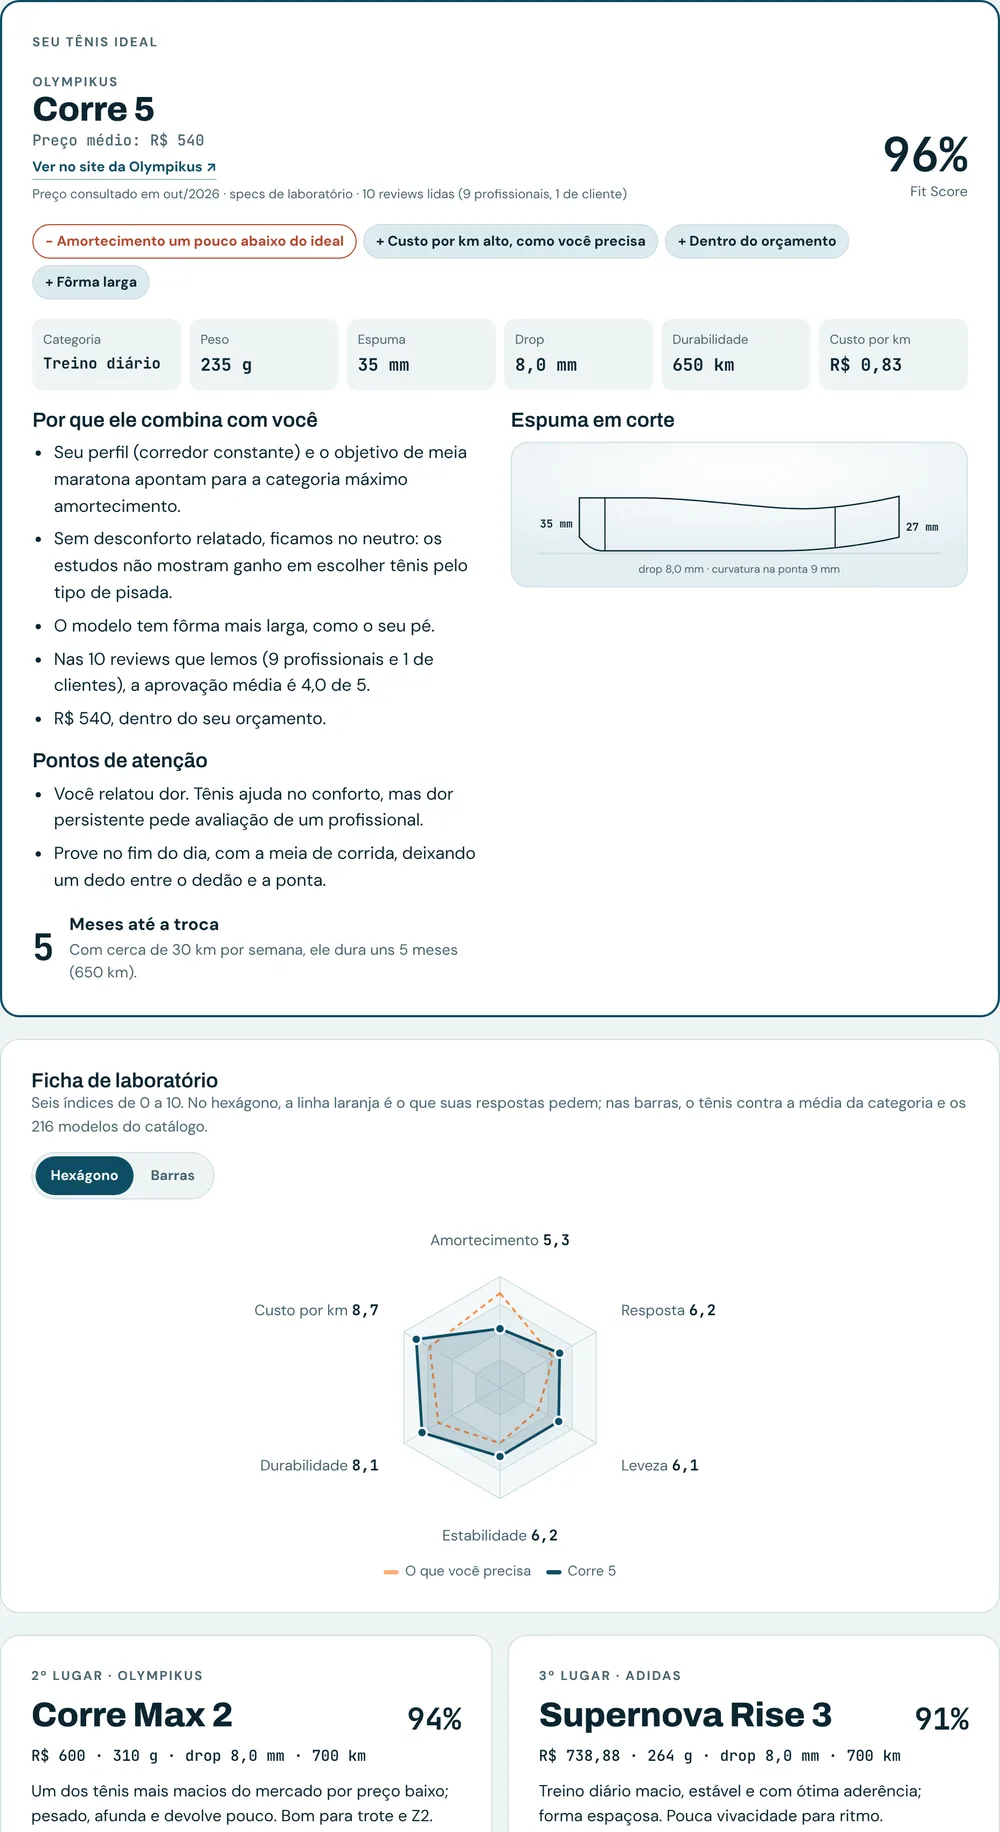
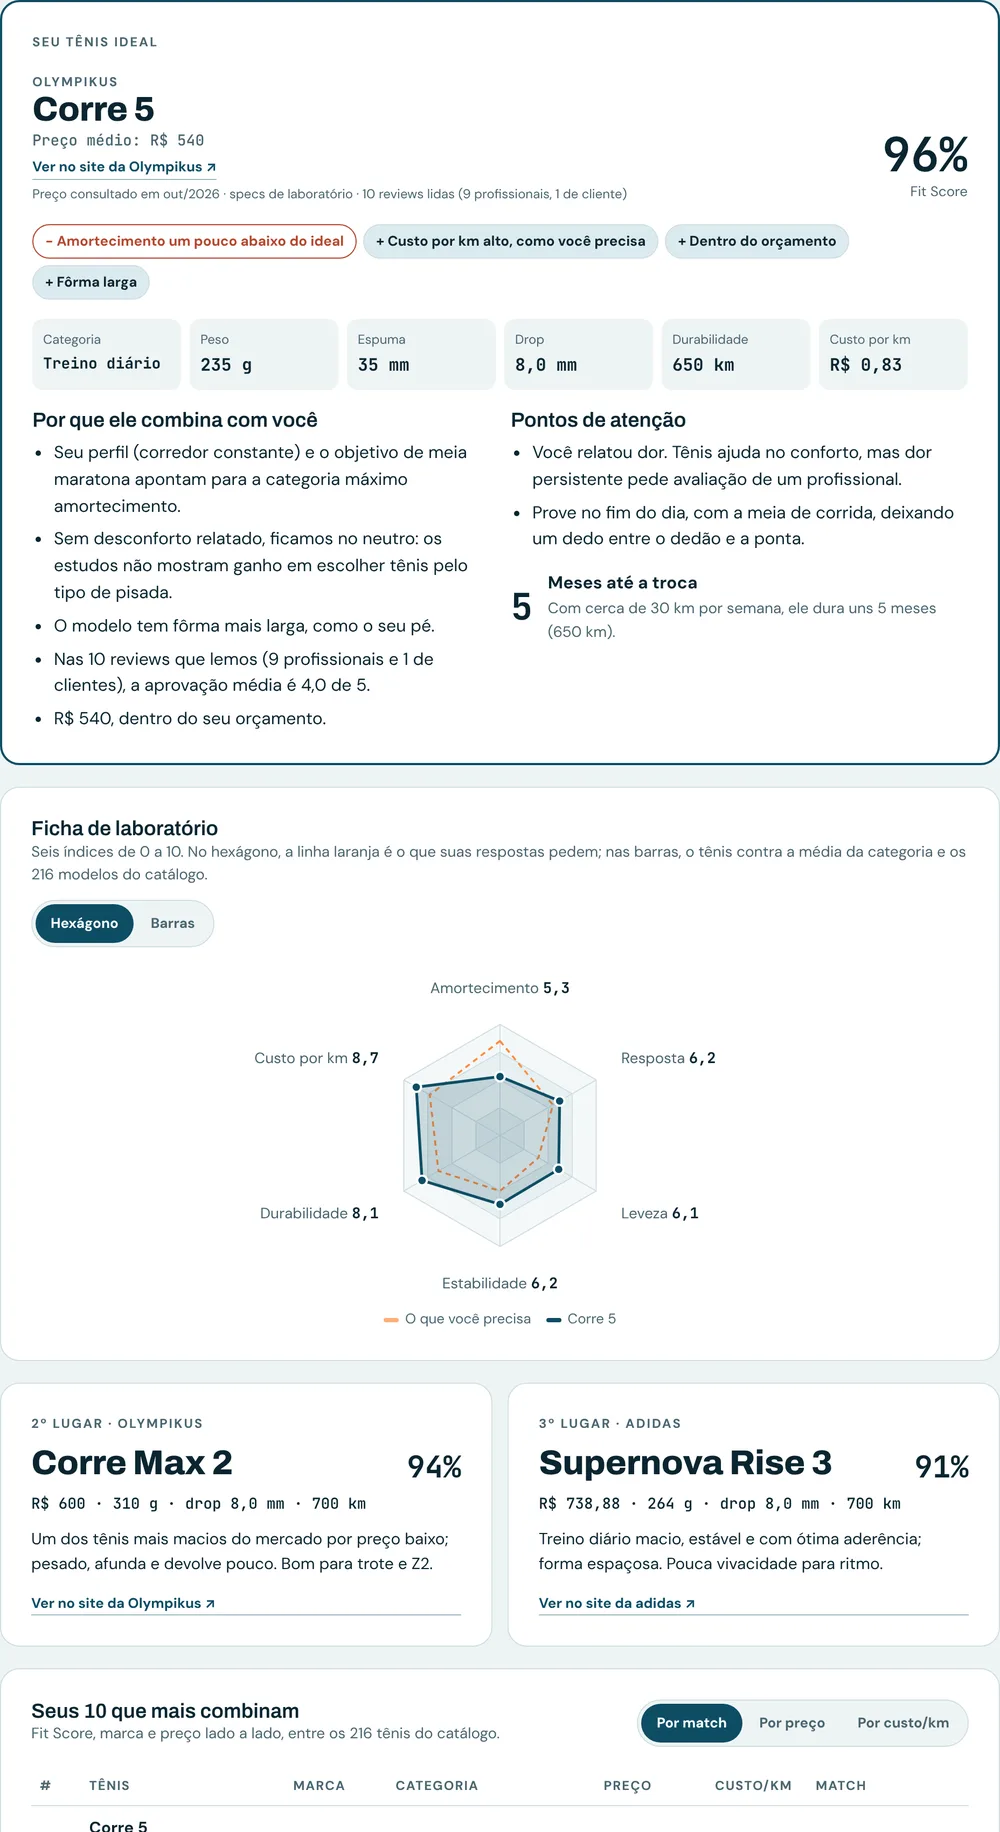
Tenis Match: sai também o corte da espuma; o tênis aparece só pelo nome
- Remove o corte lateral e a geometria do tênis. Peso, espuma e drop
  seguem nos quadros de specs.
- Relatório: "Por que combina" e "Pontos de atenção" lado a lado.
- Prévia: fica o mapa do catálogo, sem a silhueta.
- index.html e docs sem menção a perfil lateral ou 3D; imagem do
  relatório atualizada.

Claude-Session: https://claude.ai/code/session_01FbpqAMRyzRYWWu6N8zBjm6

diff --git a/apps/tenis/index.html b/apps/tenis/index.html
@@ -6,7 +6,7 @@
 /* Layout: igual ao Racket Match (coluna de 960px); identidade Match Lab com o laranja do Tenis Match */
 :root{
   --bg:#EEF4F5; --surface:#FFFFFF; --ink:#0B2530; --muted:#4A6570; --line:#CFDEE2;
-  --pri:#0E4D64; --pri-ink:#FFFFFF; --ball:#FF8A3D; --ball-ink:#0B2530; --clay:#B4472F; --soft:#DCEBEF; --hexa:#F4F8F9; --hexb:#E7F0F2; --stage:radial-gradient(120% 90% at 50% 20%,#FFFFFF 0%,#E3EEF1 70%);
+  --pri:#0E4D64; --pri-ink:#FFFFFF; --ball:#FF8A3D; --ball-ink:#0B2530; --clay:#B4472F; --soft:#DCEBEF; --hexa:#F4F8F9; --hexb:#E7F0F2;
   --f-display:'Archivo', 'Helvetica Neue', system-ui, sans-serif;
   --f-body:'DM Sans', system-ui, -apple-system, sans-serif;
   --f-mono:'JetBrains Mono', ui-monospace, Menlo, monospace;
@@ -14,10 +14,10 @@
 }
 @media (prefers-color-scheme: dark){:root:not([data-theme="light"]){
   --bg:#08222C; --surface:#0E3442; --ink:#EAF4F6; --muted:#9BB8C1; --line:#1C4B5A;
-  --pri:#7FD0E6; --pri-ink:#08222C; --ball:#FF8A3D; --ball-ink:#0B2530; --clay:#FF8A7A; --soft:#12404F; --hexa:#0F3846; --hexb:#12404F; --stage:radial-gradient(120% 90% at 50% 20%,#1A5568 0%,#0B2A36 75%); color-scheme:dark}}
+  --pri:#7FD0E6; --pri-ink:#08222C; --ball:#FF8A3D; --ball-ink:#0B2530; --clay:#FF8A7A; --soft:#12404F; --hexa:#0F3846; --hexb:#12404F; color-scheme:dark}}
 :root[data-theme="dark"]{
   --bg:#08222C; --surface:#0E3442; --ink:#EAF4F6; --muted:#9BB8C1; --line:#1C4B5A;
-  --pri:#7FD0E6; --pri-ink:#08222C; --ball:#FF8A3D; --ball-ink:#0B2530; --clay:#FF8A7A; --soft:#12404F; --hexa:#0F3846; --hexb:#12404F; --stage:radial-gradient(120% 90% at 50% 20%,#1A5568 0%,#0B2A36 75%); color-scheme:dark}
+  --pri:#7FD0E6; --pri-ink:#08222C; --ball:#FF8A3D; --ball-ink:#0B2530; --clay:#FF8A7A; --soft:#12404F; --hexa:#0F3846; --hexb:#12404F; color-scheme:dark}
 *{box-sizing:border-box}
 [hidden]{display:none!important}
 body{background:var(--bg);color:var(--ink);font-family:var(--f-body);font-size:16px;line-height:1.55}
@@ -162,7 +162,6 @@ table.t10 tr.pref td{background:var(--soft)}
 .blink:hover{border-bottom-color:var(--pri)}
 .blink:focus-visible{outline:3px solid var(--pri);outline-offset:2px}
 /* visuais */
-.stage{background:var(--stage);border:1px solid var(--line);border-radius:16px;padding:8px;position:relative;display:flex;flex-direction:column;gap:6px;min-width:0}
 .seg{display:inline-flex;background:var(--bg);border:1px solid var(--line);border-radius:999px;padding:3px;gap:2px;flex-wrap:wrap}
 .seg button{font:inherit;font-size:13px;font-weight:700;border:0;background:transparent;color:var(--muted);border-radius:999px;padding:7px 14px;cursor:pointer;min-height:36px}
 .seg button[aria-pressed="true"]{background:var(--pri);color:var(--pri-ink)}
@@ -237,7 +236,7 @@ table.t10 tr.pref td{background:var(--soft)}
     <div class="diffs">
       <div class="diff"><h3>Preço médio no Brasil</h3><p>Cada finalista com preço de referência e custo por km. Você sabe quanto vai gastar antes de abrir a loja.</p></div>
       <div class="diff"><h3>Sem mito da pisada</h3><p>Neutro por padrão, como mostram os estudos. Estabilidade só entra se você sente desconforto com neutro.</p></div>
-      <div class="diff"><h3>Ficha de laboratório</h3><p>Corte da espuma em mm e seis índices contra a média do catálogo.</p></div>
+      <div class="diff"><h3>Ficha de laboratório</h3><p>Peso, espuma e drop medidos e seis índices contra a média do catálogo.</p></div>
       <div class="diff"><h3>Quando trocar</h3><p>A data de troca pela sua quilometragem e um segundo par para rodízio, se fizer sentido.</p></div>
     </div>
     <div class="erra">
@@ -640,7 +639,6 @@ function lifeText(m,a){const w=KMW[a.km===undefined?1:a.km];const weeks=Math.rou
 function sizeText(a){const n=a.numero;const base=n?('Seu número é '+n+'. '):'';return base+'Deixe um dedo (cerca de 1 cm) entre o dedão e a ponta. Em tênis de corrida muita gente sobe meio número ou um número'+(a.largura===2?'; prefira versão larga (2E/wide) quando houver.':'.')}
 const stackOf=m=>m.hs;
 const foreOf=m=>m.fs;
-const plateOf=m=>m.pl==='carbono'?'carbono':m.pl?'placa':'';
 const STK_M={};
 const cl10=x=>Math.max(1,Math.min(10,Math.round(x*10)/10));
 function idx(m){return [cl10(m.mz*2*.65+(m.hs-28)/(46-28)*10*.35),cl10(m.rs*2+(m.pl==='carbono'?.4:0)),cl10((320-m.g)/14),cl10(m.es*2),cl10(m.du/80),cl10(10-(m.p/m.du-0.5)*4)]}
@@ -665,24 +663,8 @@ const CATCOL={ent:'#8E9AA6',dia:'#2E86DE',max:'#8E44AD',est:'#16A085',rap:'#E457
 const brandLink=(m,t)=>m.url?`<a class="blink" href="${esc(m.url)}" target="_blank" rel="noopener">${t||(m.ut==='produto'?'Ver no site da '+esc(m.b):'Site da '+esc(m.b))} ↗</a>`:'';
 const priceTxt=m=>(m.ap?'~':'')+'R$ '+m.p.toLocaleString('pt-BR',{minimumFractionDigits:m.p%1?2:0,maximumFractionDigits:2})+(!m.br?' (importado)':m.ap?' (aprox.)':'');
 const kmCost=m=>'R$ '+(m.p/m.du).toFixed(2).replace('.',',')+' por km';
-/* ---------- visuais: corte da espuma, hexágono, barras, mapa do catálogo ---------- */
+/* ---------- visuais: hexágono, barras, mapa do catálogo ---------- */
 const VZ=(function(){
-const lerp=(a,b,t)=>a+(b-a)*t;
-const sstep=(a,b,x)=>{const t=Math.max(0,Math.min(1,(x-a)/(b-a)));return t*t*(3-2*t)};
-function pw(kp,u){for(let i=1;i<kp.length;i++){if(u<=kp[i][0]){const t=(u-kp[i-1][0])/(kp[i][0]-kp[i-1][0]);const s=t*t*(3-2*t);return lerp(kp[i-1][1],kp[i][1],s)}}return kp[kp.length-1][1]}
-/* geometria paramétrica do tênis (mm) */
-function shape(m){
-  const heel=stackOf(m),fore=foreOf(m),L=285;
-  const spring=m.c==='sup'||m.c==='max'?16:m.c==='rap'?12:m.c==='tri'?7:9;
-  const wide=m.lg?1.07:1;
-  const W=[[0,30],[.04,62],[.1,74],[.3,66],[.45,68],[.68,98],[.82,96],[.94,72],[1,24]];
-  const w=u=>pw(W,u)*wide*(m.c==='max'||m.c==='est'?1.06:1);
-  const b=u=>(u<.07?Math.pow((.07-u)/.07,2)*9:0)+(u>.62?Math.pow((u-.62)/.38,2)*spring:0);
-  const st=u=>lerp(heel,fore,sstep(.18,.78,u));
-  const H=[[0,34],[.04,70],[.13,60],[.24,62],[.42,70],[.6,52],[.78,34],[.92,20],[1,8]];
-  const h=u=>pw(H,u)*(m.c==='tri'?1.04:1);
-  return {L,heel,fore,w,b,t:u=>(u>.62?b(u):0)+st(u),h,spring};
-}
 /* hexágono */
 function hex(labels,series,o){
   o=o||{};const cx=170,cy=158,R=104,n=labels.length;
@@ -728,26 +710,7 @@ function map(fins,o){
   return `<div class="tbl"><svg viewBox="0 0 ${W} ${H}" role="img" aria-label="Mapa do catálogo: ${M.length} tênis por peso e espuma, com os finalistas destacados" style="width:100%;min-width:420px;height:auto;display:block">${s}</svg></div>
   <div class="legend">${used.map(c=>`<span><i style="background:${CATCOL[c]};width:10px;height:10px;border-radius:50%"></i>${CAT[c].n}</span>`).join('')}</div>`;
 }
-/* corte lateral com medidas */
-function cut(m){
-  const S=shape(m),W=520,H=150,base=118,k=1.8,x0=70,sx=(W-140)/S.L;
-  const X=u=>x0+u*S.L*sx;let top='',bot='';
-  for(let i=0;i<=60;i++){const u=i/60;top+=(i?'L':'M')+X(u).toFixed(1)+' '+(base-S.t(u)*k).toFixed(1)+' ';}
-  for(let i=60;i>=0;i--){const u=i/60;bot+='L'+X(u).toFixed(1)+' '+(base-S.b(u)*k).toFixed(1)+' ';}
-  const pl=plateOf(m);let plate='';
-  if(pl){for(let i=4;i<=58;i++){const u=i/60;const y=S.b(u)+(S.t(u)-S.b(u))*(u<.5?.48:.42+(u-.5)*.25);plate+=(i>4?'L':'M')+X(u).toFixed(1)+' '+(base-y*k).toFixed(1)+' '}}
-  const hu=.08,fu=.8;
-  const dim=(u,lab)=>{const x=X(u),y1=base-S.b(u)*k,y2=base-S.t(u)*k;return `<line x1="${x}" x2="${x}" y1="${y1}" y2="${y2}" stroke="var(--ink)" stroke-width="1.4" marker-start="url(#ar)" marker-end="url(#ar)"/><text x="${u<.5?X(0)-8:X(1)+8}" y="${(y1+y2)/2+4}" text-anchor="${u<.5?'end':'start'}" font-size="13" font-weight="700" fill="var(--ink)" font-family="JetBrains Mono,monospace">${lab}</text>`};
-  return `<svg viewBox="0 0 ${W} ${H}" role="img" aria-label="Corte lateral: salto ${S.heel} mm, antepé ${S.fore} mm, drop ${dec1(m.dr)} mm" style="width:100%;height:auto;display:block">
-  <defs><marker id="ar" viewBox="0 0 8 8" refX="4" refY="4" markerWidth="7" markerHeight="7" orient="auto-start-reverse"><path d="M0 1 L4 4 L0 7" fill="none" stroke="var(--ink)" stroke-width="1.4"/></marker>
-  <pattern id="foam" width="8" height="8" patternUnits="userSpaceOnUse"><rect width="8" height="8" fill="var(--soft)"/><circle cx="2" cy="2" r="1.1" fill="var(--line)"/><circle cx="6" cy="6" r="1.1" fill="var(--line)"/></pattern></defs>
-  <line x1="20" x2="${W-20}" y1="${base+3}" y2="${base+3}" stroke="var(--line)" stroke-width="2"/>
-  <path d="${top}${bot}Z" fill="url(#foam)" stroke="var(--ink)" stroke-width="1.6"/>
-  ${plate?`<path d="${plate}" fill="none" stroke="${pl==='carbono'?'var(--ink)':'var(--muted)'}" stroke-width="3" stroke-linecap="round"/>`:''}
-  ${dim(hu,S.heel+' mm')}${dim(fu,S.fore+' mm')}
-  <text x="${W/2}" y="${H-6}" text-anchor="middle" font-size="13" fill="var(--muted)">drop ${dec1(m.dr)} mm · curvatura na ponta ${S.spring} mm${pl?' · placa de '+(pl==='carbono'?'carbono':'propulsão'):''}</text></svg>`;
-}
-return {hex,bars,map,cut,shape};
+return {hex,bars,map};
 })();
 
 /* ---------- app Tenis Match (mesma estrutura do Racket Match) ---------- */
@@ -873,23 +836,16 @@ function renderPreview(){
       ${VZ.hex(RX,[{name:'Você',v:runnerVec(r.a).map(x=>x*10),c:'var(--pri)',fill:'var(--pri)',fo:.16,dots:1}])}
     </div>
   </div>
-  <div class="two">
-    <div class="panel">
-      <h3>Seu 1º lugar já está pronto</h3>
-      <div class="stage" style="padding:8px">${VZ.cut(r.fins[0].m)}</div>
-      <p class="muted" style="font-size:14px">Este é o corte da espuma do tênis escolhido para você, com as medidas em mm. Marca e modelo aparecem no desbloqueio.</p>
-    </div>
-    <div class="panel">
-      <h3>Onde seus finalistas ficam no catálogo</h3>
-      ${VZ.map(r.fins,{hide:1})}
-    </div>
+  <div class="panel">
+    <h3>Onde seus finalistas ficam no catálogo</h3>
+    ${VZ.map(r.fins,{hide:1})}
   </div>
   <div class="panel">
     <h2>Revele seus tênis</h2>
     <div class="plans">
       <div class="plan best">
         <h3>Relatório completo</h3><span class="price">R$ 9,99</span>
-        <ul><li>Seu tênis ideal com Fit Score, ficha técnica e perfil lateral</li><li>Por que combina com você e pontos de atenção</li><li>Tamanho e data de troca</li><li>2º e 3º lugares, com marca e modelo</li><li>Seu top 10 com match, marca e preço</li><li>Top 3 geral ou top 3 da sua marca, lado a lado</li><li>Ranking por marca: o melhor de cada uma para você</li><li>Segundo par para rodízio</li><li>Dicas para pagar menos</li></ul>
+        <ul><li>Seu tênis ideal com Fit Score e ficha técnica</li><li>Por que combina com você e pontos de atenção</li><li>Tamanho e data de troca</li><li>2º e 3º lugares, com marca e modelo</li><li>Seu top 10 com match, marca e preço</li><li>Top 3 geral ou top 3 da sua marca, lado a lado</li><li>Ranking por marca: o melhor de cada uma para você</li><li>Segundo par para rodízio</li><li>Dicas para pagar menos</li></ul>
         <button class="btn btn-go" type="button" id="buy">Pagar com Pix (simulação)</button>
       </div>
     </div>
@@ -944,14 +900,10 @@ function renderReport(){
       <div class="spec"><span>Custo por km</span><b>${kmCost(m).replace(' por km','')}</b></div>
     </div>
     <div class="two">
+      <div><h3 style="margin-bottom:8px">Por que ele combina com você</h3><ul class="why">${whyT(r).map(x=>`<li>${esc(x)}</li>`).join('')}</ul></div>
       <div style="display:flex;flex-direction:column;gap:16px">
-        <div><h3 style="margin-bottom:8px">Por que ele combina com você</h3><ul class="why">${whyT(r).map(x=>`<li>${esc(x)}</li>`).join('')}</ul></div>
         <div><h3 style="margin-bottom:8px">Pontos de atenção</h3><ul class="why">${attT(r).map(x=>`<li>${esc(x)}</li>`).join('')}</ul></div>
         <div class="arm"><b>${mo}</b><div><strong>${mo===1?'Mês':'Meses'} até a troca</strong><p class="muted" style="font-size:14px">Com cerca de ${km} km por semana, ele dura uns ${mo} ${mo===1?'mês':'meses'} (${m.du} km).</p></div></div>
-      </div>
-      <div style="display:flex;flex-direction:column;gap:10px;min-width:0">
-        <h3>Espuma em corte</h3>
-        <div class="stage" style="padding:8px">${VZ.cut(m)}</div>
       </div>
     </div>
   </div>

diff --git a/index.html b/index.html
@@ -414,7 +414,7 @@ const AREAS = {
     facts:[["216","tênis de 14 marcas"],["18","perguntas"],["R$ 9,99","relatório"]],
     vin:["Peso e largura do pé","Dor ao correr","Km por semana e ritmo","Terreno","Objetivo e prova","Treino de tiro","Sensação preferida","Orçamento"],
     vout:["Categoria","Altura de espuma","Drop","Peso","Durabilidade","Custo por km","Quando trocar","Segundo par"],
-    inside:[["Tênis ideal com Fit Score","Modelo, preço médio no Brasil e ficha técnica."],["Perfil lateral desenhado","Altura de espuma, drop e placa à vista."],["Quando trocar","A data de troca pela sua quilometragem semanal."],["Segundo par e custo por km","Rodízio e os finalistas lado a lado."]],
+    inside:[["Tênis ideal com Fit Score","Modelo, preço médio no Brasil e ficha técnica."],["Ficha de laboratório","Peso, espuma e drop medidos, e seis índices contra a média do catálogo."],["Quando trocar","A data de troca pela sua quilometragem semanal."],["Segundo par e custo por km","Rodízio e os finalistas lado a lado."]],
     price:[["R$ 9,99","Relatório completo"]],
     gloss:[["Drop","Diferença de altura entre calcanhar e antepé, em mm."],["Stack","Altura total de espuma sob o pé."],["PEBA","Espuma leve e muito responsiva, comum em tênis de prova."],["Placa de carbono","Lâmina rígida na entressola que muda a mecânica da passada."],["Rocker","Curvatura da sola que ajuda a rolar do apoio à impulsão."],["Cabedal","A parte de cima do tênis, que segura o pé."]]}
 };
@@ -454,7 +454,7 @@ let heroK = "racket";
 const MODEL_TXT={
   racket:"a raquete ideal com Match Score, o setup em seis decisões, a raquete em 3D, o perfil de jogo no hexágono e a comparação com a sua raquete atual.",
   board:"o tipo de prancha com o percentual de combinação, o desenho da prancha, as medidas e a litragem, os motivos em cards e a comparação com a sua prancha atual.",
-  tenis:"o tênis ideal com Fit Score e preço médio, a ficha técnica, o corte da espuma em mm, os prós e contras das reviews e a data de troca pela sua quilometragem."};
+  tenis:"o tênis ideal com Fit Score e preço médio, a ficha técnica, os prós e contras das reviews e a data de troca pela sua quilometragem."};
 function modelSec(){
   const a=AREAS[heroK];
   return `<div class="model ${a.cls}">

diff --git a/docs/tenis/benchmark.md b/docs/tenis/benchmark.md
@@ -13,7 +13,7 @@ Nenhum quiz brasileiro recomenda; ninguém mostra preço em BRL nem custo por km
 ## Aplicado no Tenis Match v6
 Tênis em 3D paramétrico (stack, drop e curvatura de cada modelo), silhueta 3D no teaser, corte lateral com medidas, hexágono com "o que você precisa" sobreposto, barras de laboratório vs. média da categoria + percentil e pontos do catálogo, mapa do catálogo (peso × espuma), chips de fatores do match, origem do dado, custo por km vs. média, hexágono do rodízio, hexágono no card de story.
 
-Em out/2026 o tênis em 3D e a silhueta do teaser saíram (visual tosco); ficaram o corte da espuma com medidas, o hexágono, as barras e o mapa.
+Em out/2026 saíram o tênis em 3D, a silhueta do teaser e o corte lateral (visual tosco). O tênis aparece só pelo nome; ficaram os quadros de specs, o hexágono, as barras e o mapa.
 
 ## Próximos candidatos
 Autoteste guiado no lugar da pergunta de pisada; slider "e se eu correr mais km"; card 9:16 exportável; pergunta sobre calor e umidade.
